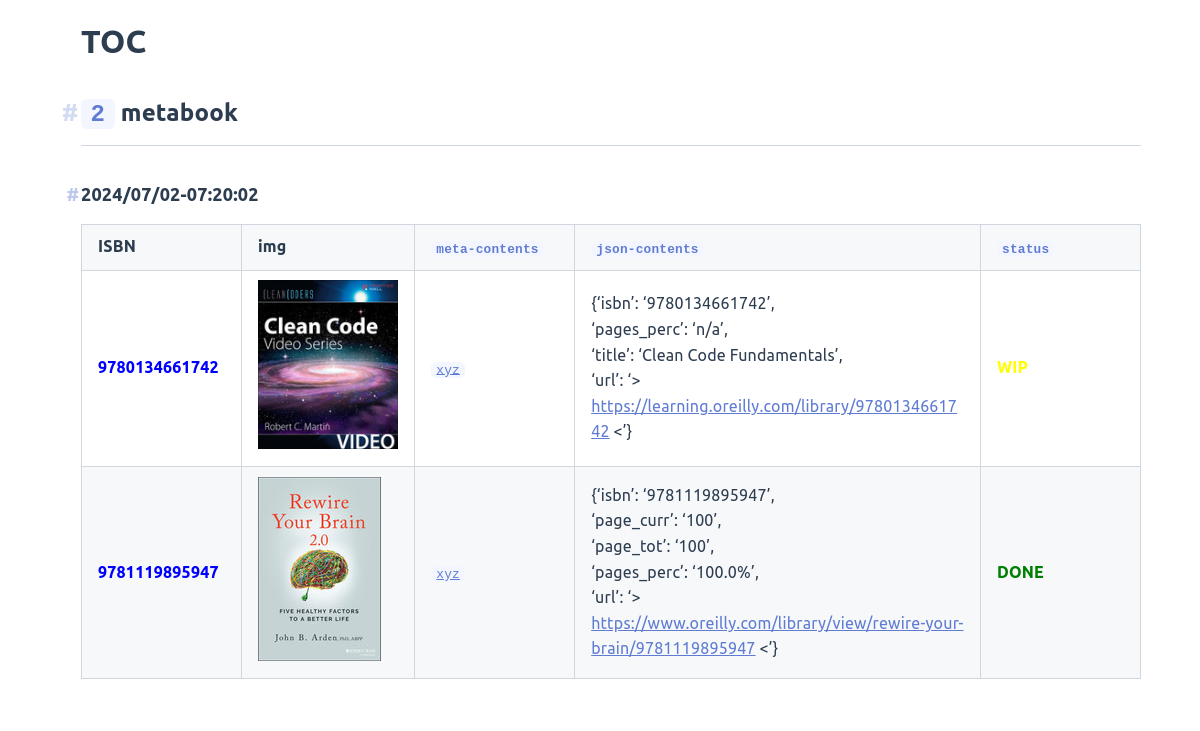
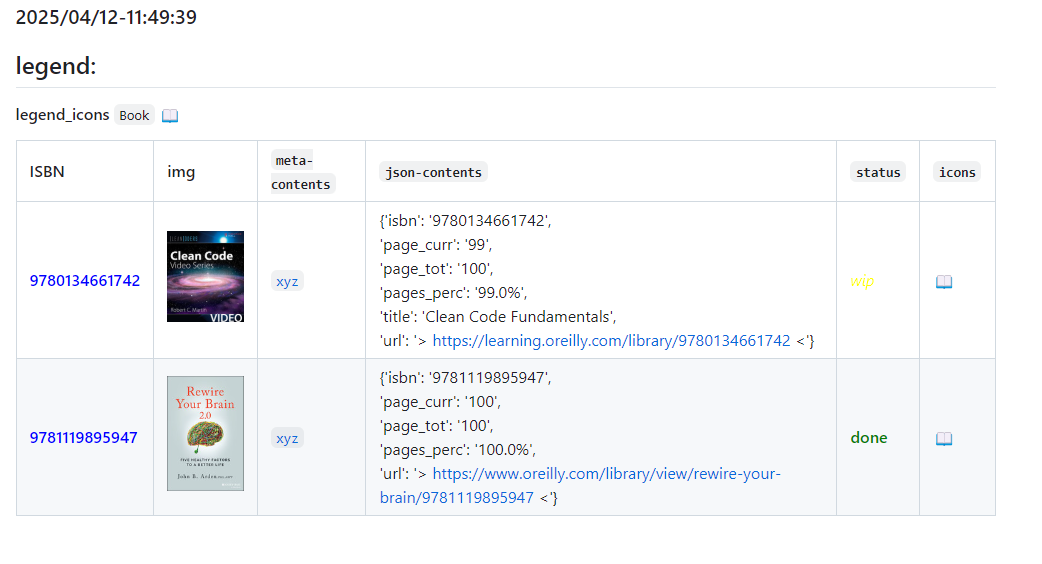
wip:

diff --git a/zero_to_one_hundred/src/zero_to_one_hundred/models/metadata.py b/zero_to_one_hundred/src/zero_to_one_hundred/models/metadata.py
@@ -18,8 +18,8 @@ from zero_to_one_hundred.src.zero_to_one_hundred.views.markdown_renderer import 
 class Metadata(MarkdownRenderer):
     ONE_HUN_PER_TXT = "100.0%"
 
-    DONE_TXT_AS_MD = '<span style="color:green">**DONE**</span>'
-    WIP_TXT_AS_MD = '<span style="color:yellow">**WIP**</span>'
+    DONE_TXT_AS_MD = '<span style="color:green">**done**</span>'
+    WIP_TXT_AS_MD = '<span style="color:orange">*wip*</span>'
 
     def __init__(
         self,
@@ -34,7 +34,7 @@ class Metadata(MarkdownRenderer):
         self.persist_fs = persist_fs
         self.process_fs = process_fs
         self.isbn = get_isbn(http_url)
-        self.contents_path = persist_fs.abs_path(f"{self.isbn}")
+        self.contents_path = f"{self.config_map.get_toc_path}/{self.isbn}"
         self.path_json = f"{self.contents_path}/{self.isbn}.json"
         self.metadata: dict = self.read()
 

diff --git a/toc_sb.md b/toc_sb.md
@@ -1,7 +1,7 @@
 
 # TOC
 ## `2` metabook
-### 2025/04/12-09:37:43
+### 2025/04/12-11:51:26
 
 ## legend:
 
@@ -10,6 +10,6 @@
 
 |  ISBN 	|   img	|  `meta-contents`  	|  `json-contents` 	| `status` | `icons`
 |---	|---	|---	|---		|---	|---	|
-|<span style="color:blue">**9780134661742**</span>|![`img`](./0to100/9780134661742/9780134661742.png)|[`xyz`](./0to100/9780134661742)|{'isbn': '9780134661742',<br/> 'pages_perc': 'n/a',<br/> 'url': '> https://learning.oreilly.com/library/9780134661742 <'}|<span style="color:yellow">**WIP**</span>|:book:|
-|<span style="color:blue">**9781119895947**</span>|![`img`](./0to100/9781119895947/9781119895947.png)|[`xyz`](./0to100/9781119895947)|{'isbn': '9781119895947',<br/> 'pages_perc': 'n/a',<br/> 'url': '> https://learning.oreilly.com/library/9781119895947 <'}|<span style="color:yellow">**WIP**</span>|:book:|
+|<span style="color:blue">**9780134661742**</span>|![`img`](./0to100/9780134661742/9780134661742.png)|[`xyz`](./0to100/9780134661742)|{'isbn': '9780134661742',<br/> 'page_curr': '99',<br/> 'page_tot': '100',<br/> 'pages_perc': '99.0%',<br/> 'title': 'Clean Code Fundamentals',<br/> 'url': '> https://learning.oreilly.com/library/9780134661742 <'}|<span style="color:orange">*wip*</span>|:book:|
+|<span style="color:blue">**9781119895947**</span>|![`img`](./0to100/9781119895947/9781119895947.png)|[`xyz`](./0to100/9781119895947)|{'isbn': '9781119895947',<br/> 'page_curr': '100',<br/> 'page_tot': '100',<br/> 'pages_perc': '100.0%',<br/> 'url': '> https://www.oreilly.com/library/view/rewire-your-brain/9781119895947 <'}|<span style="color:green">**done**</span>|:book:|
         
